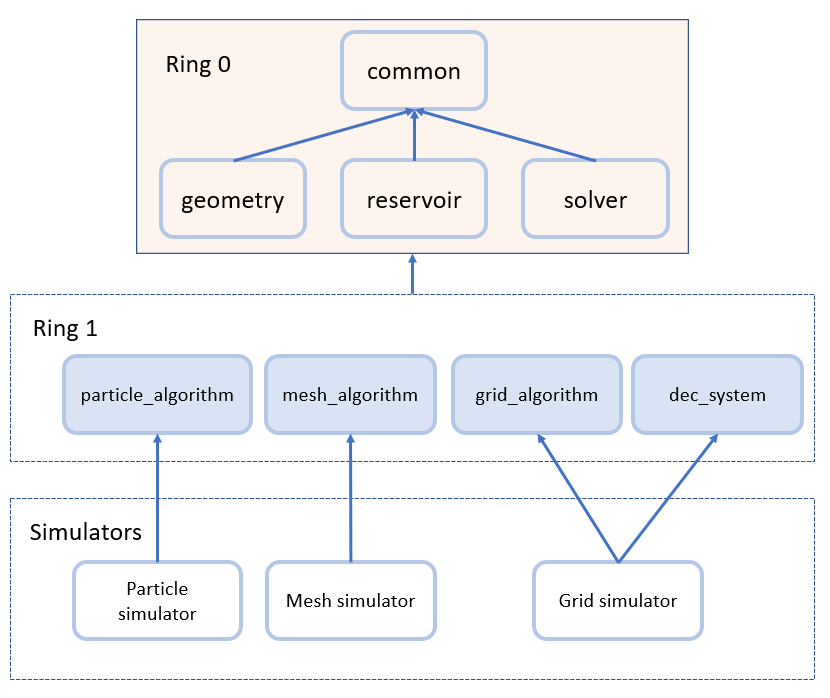
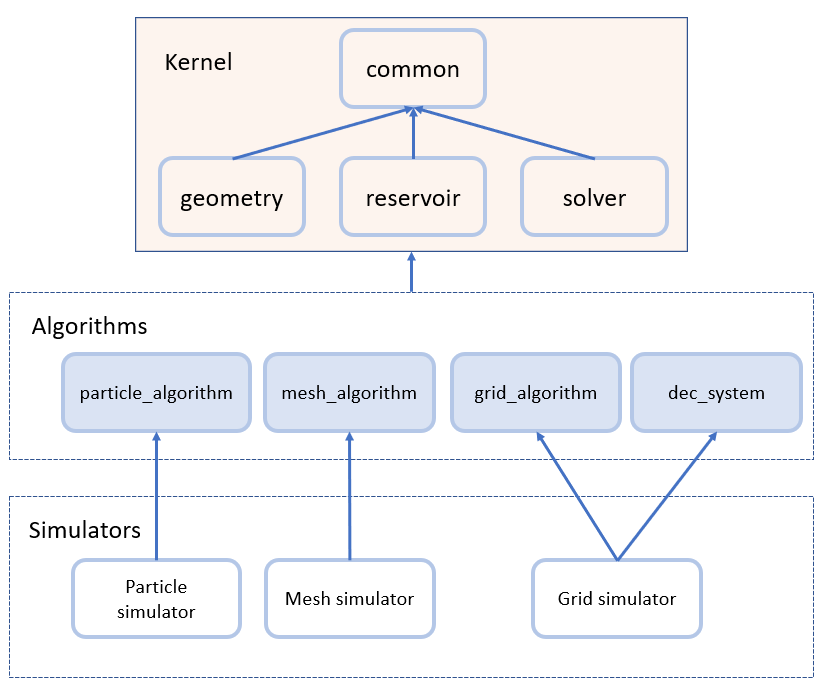
update docs

diff --git a/docs/programming-guides-zh.md b/docs/programming-guides-zh.md
@@ -7,19 +7,30 @@
 
 <img src="./assets/meso_design.png" width =75% alt="mgpcg-smooth" align=center/>
 
-如上图所示，项目分为三层：`Ring 0`，`Ring 1`和`Simulators`.
+如上图所示，项目分为三层：`Kernel`，`Algorithm`和`Simulators`.
 
-#### Ring 0
+#### Kernel
 
-此层拥有四个子目录：`common`、`geometry`、`reservoir`、`solver`，是MESO的核心代码。任何MESO的用户都会同时使用这四个子目录中的代码内容，也就是说此层可以视作一个整体，在图中用染色的实心方框表示。
+此层是MESO的核心代码，拥有四个子目录：`common`、`geometry`、`reservoir`、`solver`。任何MESO的用户都会同时使用这四个子目录中的代码内容，也就是说此层可以视作一个整体，在图中用染色的实心方框表示。
 
-#### Ring 1
+其中，`common`负责最基本的程序功能，例如对`Eigen`、`Json`、`thrust`的适配、对数学常数的定义等等。`geometry`含有以各种解析方法表示的几何形体，`reservoir`含有粒子/网格/Mesh三种处理大批量数据的数据结构，`solver`是数学上的线性方程组求解器。
 
-此层拥有四个子目录：`particle_algorithm`、`mesh_algorithm`、`grid_algorithm`、`dec_system`，是不同类型的模拟系统需要使用的特有算法。这一层并不是一个整体，因为用户可以只使用其中的若干个，在图中用虚线方框表示。
+某一功能进入此层的标准是：几乎所有的粒子/网格/Mesh模拟程序都<font color=red>必须使用该功能</font>。
+
+正例：
+- 几乎所有的网格或Mesh模拟程序都必须以某种方式使用CG求解器，因此CG求解器位于`solver`目录下。
+- 几乎所有的粒子模拟程序都必须使用我们在`Points.h`中定义的粒子系统数据结构，因此它位于`reservoir`目录下。
+
+反例：
+- 
+
+#### Algorithm
+
+此层是不同类型的模拟系统需要使用的特有算法，拥有四个子目录：`particle_algorithm`、`mesh_algorithm`、`grid_algorithm`、`dec_system`。这一层并不是一个整体，因为用户可以只使用其中的若干个，在图中用虚线方框表示。
 
 #### Simulators
 
-此层是不同的模拟程序，例如Fluid Euler、SPH、FEM等等。每个程序将按需使用Ring 1中的一个或多个子目录，同时也自动使用整个Ring 0.
+此层是不同的模拟程序，例如Fluid Euler、SPH、FEM等等。每个程序将按需使用Algorithms层中的一个或多个子目录，同时也自动使用整个Kernel.
 
 ## 结构设计规范
 

diff --git a/README.md b/README.md
@@ -54,3 +54,9 @@ An output folder named `cavity` with `.vst` files will be generated.
 
 ## Notes for Developers
 <img src="./docs/assets/meso_design.png" width =70% alt="mgpcg-smooth" align=center/>
+
+Maintainers:
+
+- Kernel, grid_algorithm, dec_system: Mengdi Wang
+- particle_algorithm: Fan Feng
+- mesh_algorithm: Yitong Deng
